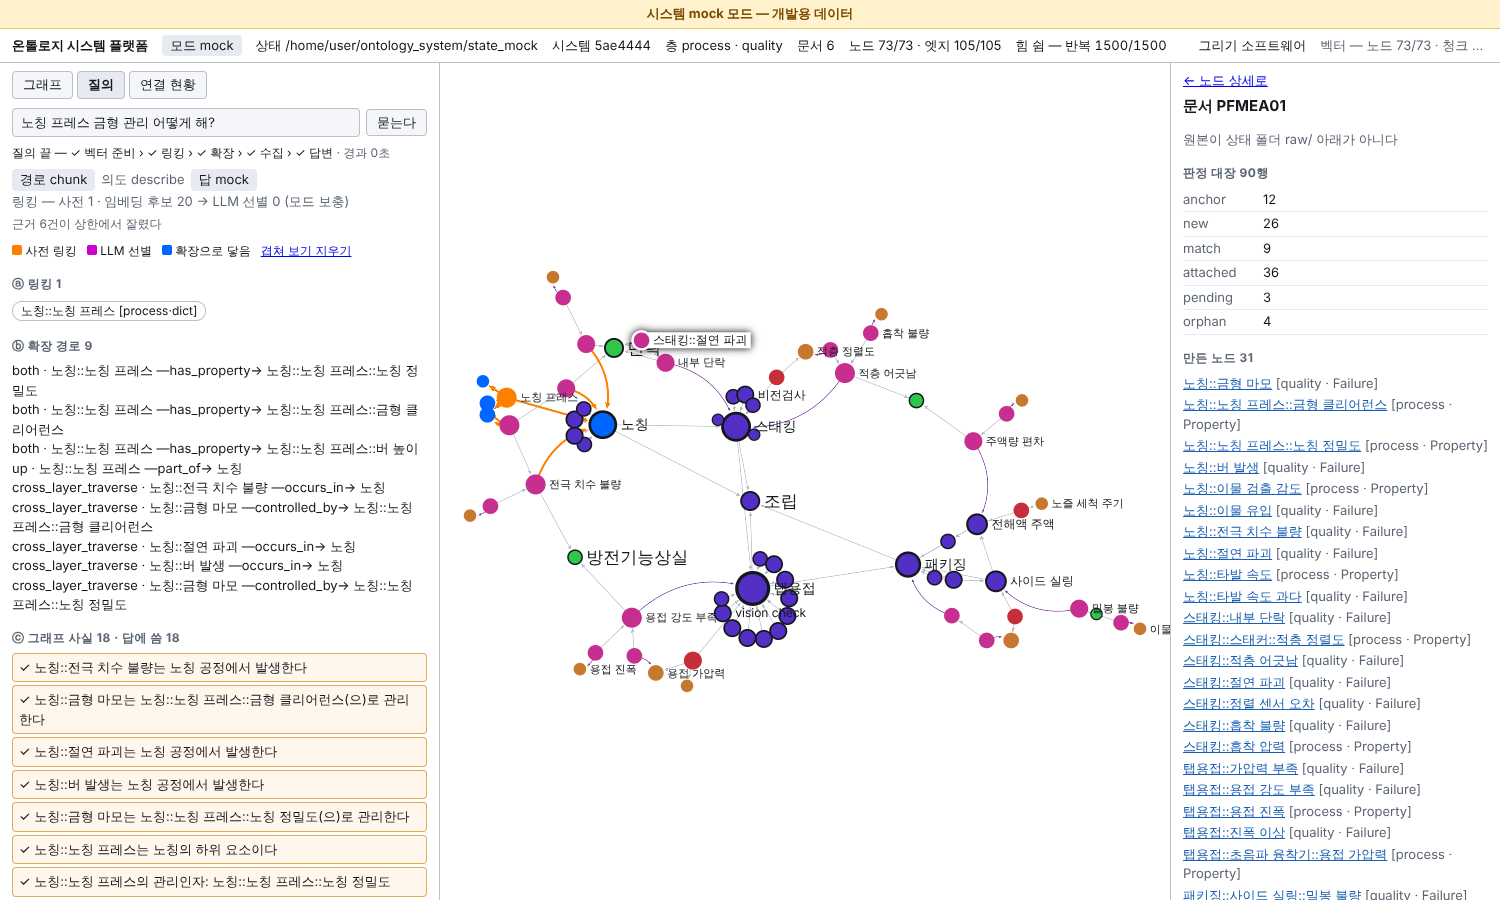
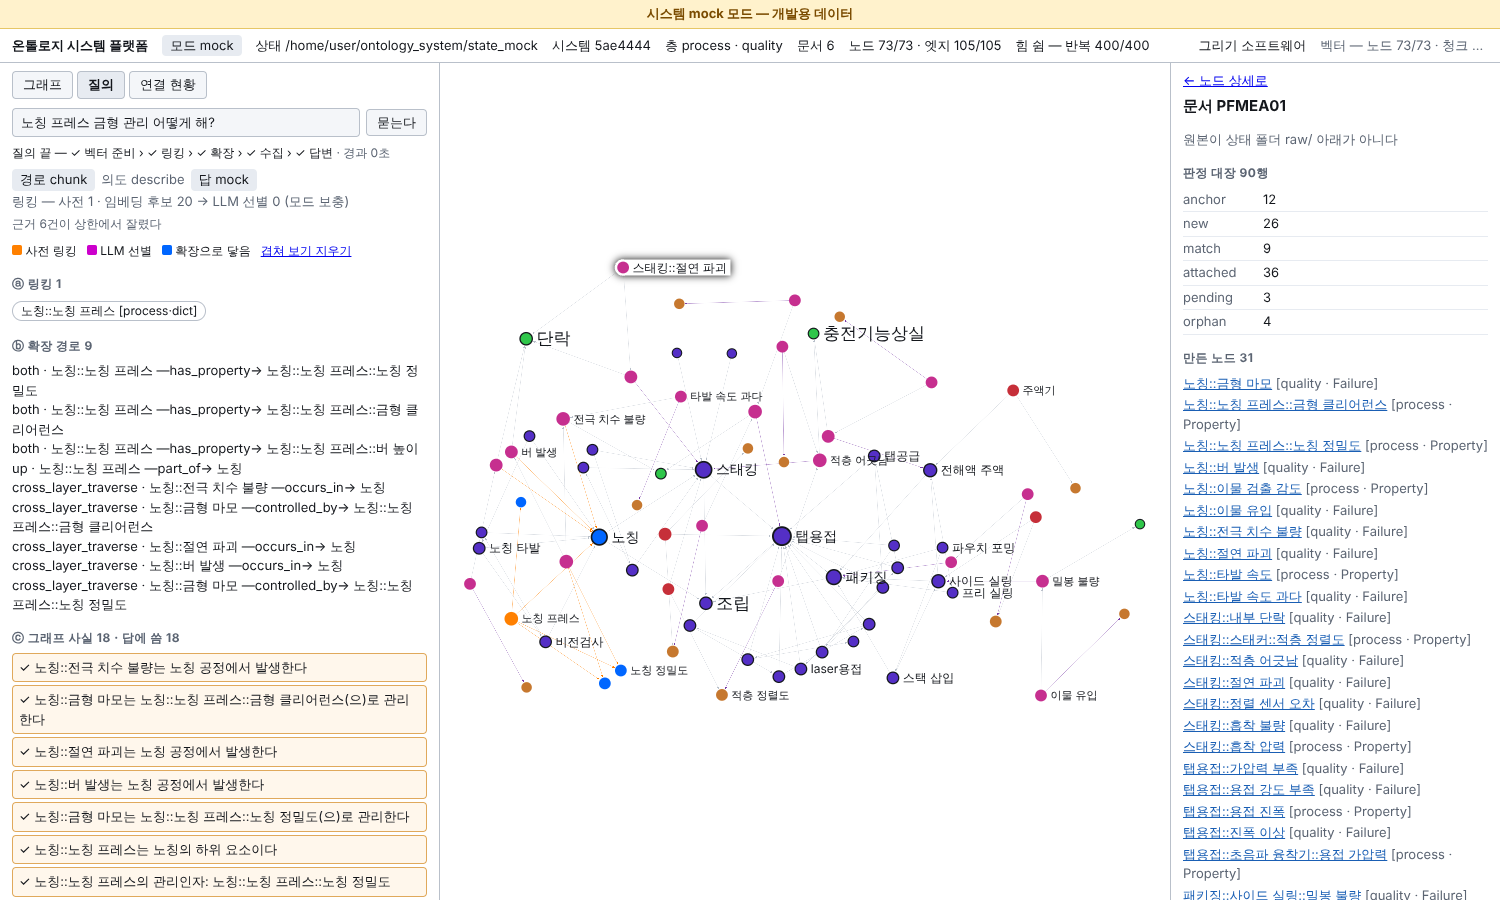
P5: d3-force 배치 · 배치 단위 크기 · 직선 · 이름 자리 — 미완(끌기 · 자리 잡기 흐름 B-03) · 마감 보고
Claude-Session: https://claude.ai/code/session_01UGjo4H9NcW6ChgCwPur9sZ

diff --git a/verify/p1_contract.py b/verify/p1_contract.py
@@ -30,7 +30,7 @@ SAMPLES = {
     "/api/health": {"home": "/h", "mode": "mock", "layers": ["L"], "docs": 1, "doc_types": 1},
     "/api/graph": {"nodes": [NODE, dict(NODE, id="N2")], "edges": [EDGE], "layers": ["L"], "rels": ["r"],
                    "anchor": {}, "detached": {"edgeless": [], "island": []}, "roots": ["N1"],
-                   "explore_threshold": 1500, "force": {"scaling": 2}},
+                   "explore_threshold": 1500},   # `force`는 P5부터 칸 목록에서 뺐다(명세 §4)
     "/api/node/<id>": {"id": "N1", "name": "a", "anchor_path": [], "evidence": [], "evidence_total": 0,
                        "landed": []},
     "/api/neighbors/<id>": {"id": "N1", "neighbors": []},

diff --git a/BLOCKERS.md b/BLOCKERS.md
@@ -4,7 +4,14 @@
 
 ## P5 (2026-11-19)
 
-### B-03 합성 1,500에서 끌기의 「끌지 않은 곳이 흐르지 않는다」와 「1홉 ≥ 50%」가 d3-force에서 함께 서지 않는다 — **열림**
+### B-03 d3-force로 바꾼 뒤 「끌지 않은 곳이 흐르지 않는다」가 깨진다(합성 · mock · 자리 잡기) — **열림 · 이 회차의 남은 일**
+
+> **마감 때 추가(회귀 실측 · GAP 300)**: 합성만이 아니다. mock에서도 `p15_drag.py` ⓑ 9.9% · `p16_drag.py` ⓐ 1.2~3.8%(문턱 1%),
+> `p3_explore.py` ⓔ(자리 잡기 — 새 105 ≤ 기존 536) 먼 기존 노드 4.6% · 연결 ÷ 비연결 0.605(문턱 2% · 0.5)가 FAIL이다. 같은 원인이다 — 데운 뒤의 평형이 불안정하다.
+> 화면은 누르는 동안 alphaTarget 0.3을 붙들어 오프라인보다 훨씬 많은 반복을 돌아(2초) 더 흐른다.
+> **선택지 D(권고로 바꾼다 · 재지 않았다)**: 끌기 · 자리 잡기 동안에는 밀어냄을 빼고, 엣지 용수철의 쉬는 길이를 **시작 순간의 길이**로 둔다(겹침 막기 · 붙잡기는 그대로).
+> 그러면 시작 자리가 그대로 안정된 평형이라(모든 용수철이 쉬는 길이 · 밀어냄 없음) 흐를 것이 없고, 끄는 노드는 엣지로 이웃을 끈다.
+> 요청문 ②의 「다른 힘의 합을 상쇄하는 제자리」 방식을 바꾸는 것이라 이 세션이 고르지 않았다 — 플랫폼 트랙이 정한다.
 
 **① 근거 원문.** 명세 §5.1 끌기 배치는 「끌기 때문에 … 끌지 않은 곳이 출렁이지 않는다」, 요청문 P5 ⓑ는 합성 1,500과 mock 각각에서 `p15_drag.py` ⓑ(쉰 뒤 2px · 2초 → 다른 노드 평균 이동
 < 반경의 1%) · `p16_drag.py` ⓐ(허브를 끈 뒤 2px 네 번 < 1%)와 「허브 1홉 ≥ 50%」를 함께 요구한다. 요청문 ②는 d3 방식(alphaTarget 0.3 · 제자리 = 시작 순간 평형)을 정했다.
